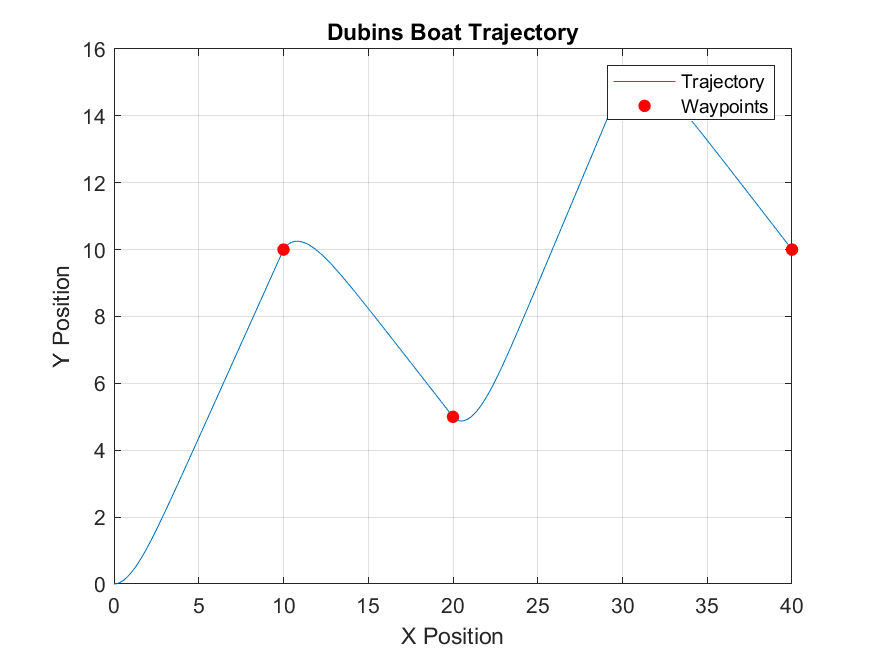
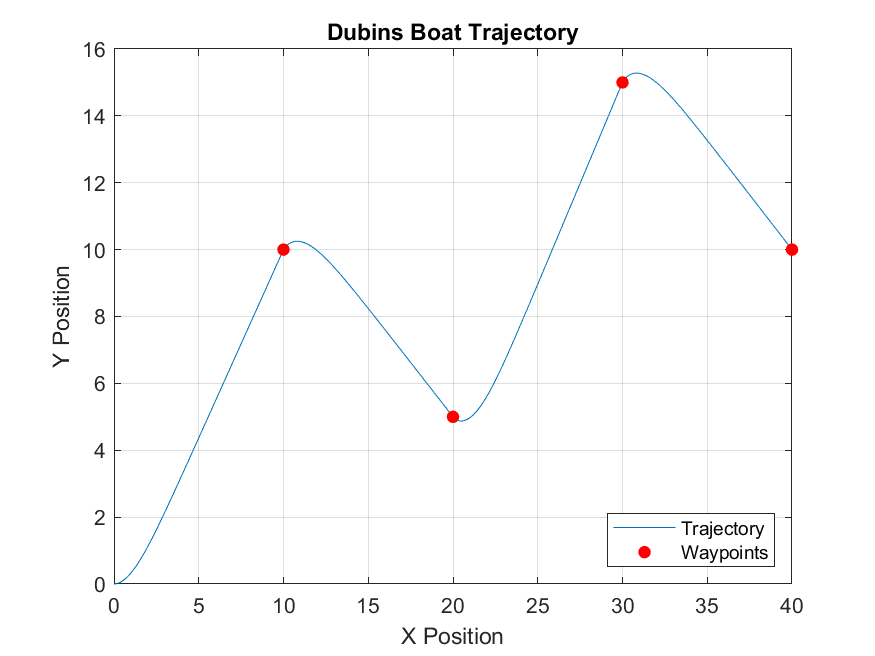
updated legend location for dubin's path vs time

diff --git a/simulations/run_dubins_boat_w_controller.m b/simulations/run_dubins_boat_w_controller.m
@@ -51,11 +51,12 @@ if ~exist(results_dir, 'dir')
 end
 
 % Plot results
+
 figure;
 plot(trajectory(:, 1), trajectory(:, 2));
 hold on;
 scatter(waypoints(:, 1), waypoints(:, 2), 'r', 'filled');
-legend('Trajectory', 'Waypoints');
+legend('Trajectory', 'Waypoints', 'Location', 'southeast');
 title('Dubins Boat Trajectory');
 xlabel('X Position');
 ylabel('Y Position');
